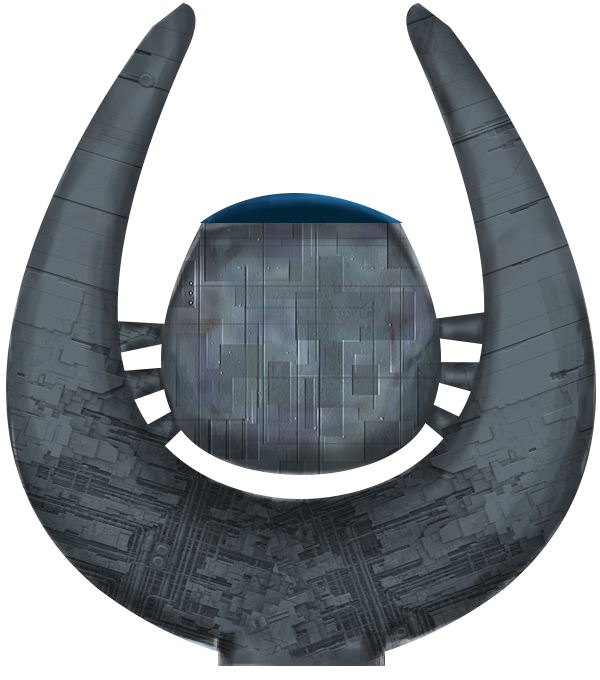
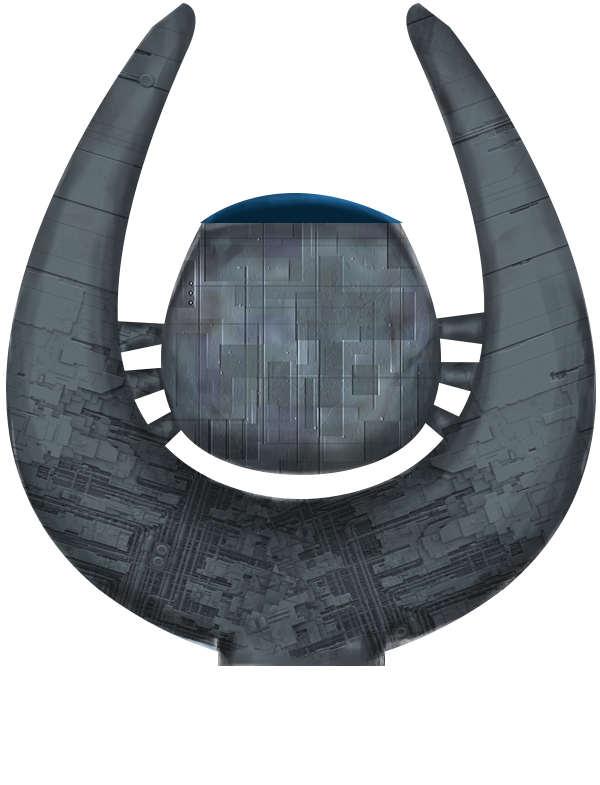
improve mothership rendering

diff --git a/core/src/deaddream/screens/GameScreen.java b/core/src/deaddream/screens/GameScreen.java
@@ -58,7 +58,7 @@ public class GameScreen implements Screen {
 		tmr = new OrthogonalTiledMapRenderer(map);
 		this.loadTextures();
 		this.unit00 = new Protector(this.world, game.assets.get("skins/units/protector.png", Texture.class), 23f, 23f, 0.0f);
-		this.unit01 = new Protector(this.world, game.assets.get("skins/units/protector.png", Texture.class), 18f, 18f, 1f);
+		this.unit01 = new Protector(this.world, game.assets.get("skins/units/protector.png", Texture.class), 35f, 40f, 1f);
 		this.stone = new Stone(this.world, game.assets.get("skins/units/stone.png", Texture.class), 25f, 25f, 1f);
 		this.UCMothership = new deaddream.units.UCMothership(this.world, game.assets.get("skins/units/ucmothership.png", Texture.class), 40f, 40f, 1f);
 		MapObjects objects =  map.getLayers().get("collision-layer").getObjects();
@@ -85,8 +85,7 @@ public class GameScreen implements Screen {
 		beginBatch();
 		renderUnits();
 		this.game.batch.end();
-		//b2ddr.unproject( game.camera.position );
-		b2ddr.render(world, debugMatrix);
+		//b2ddr.render(world, debugMatrix);
 		
 	}
 	

diff --git a/core/src/deaddream/units/UCMothership.java b/core/src/deaddream/units/UCMothership.java
@@ -14,8 +14,8 @@ import aurelienribon.bodyeditor.BodyEditorLoader;
 
 public class UCMothership extends Unit {
 	
-	protected static final int width = 594;
-	protected static final int height = 669;
+	protected static final int width = 600;
+	protected static final int height = 680;
 	
 	public UCMothership(World world, Texture staticTexture, float x, float y, float angle) {
 		super(world, staticTexture, x, y, angle);
